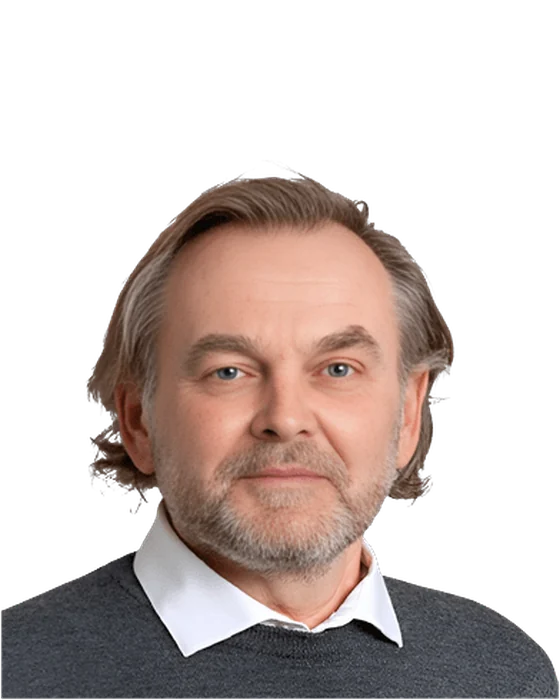
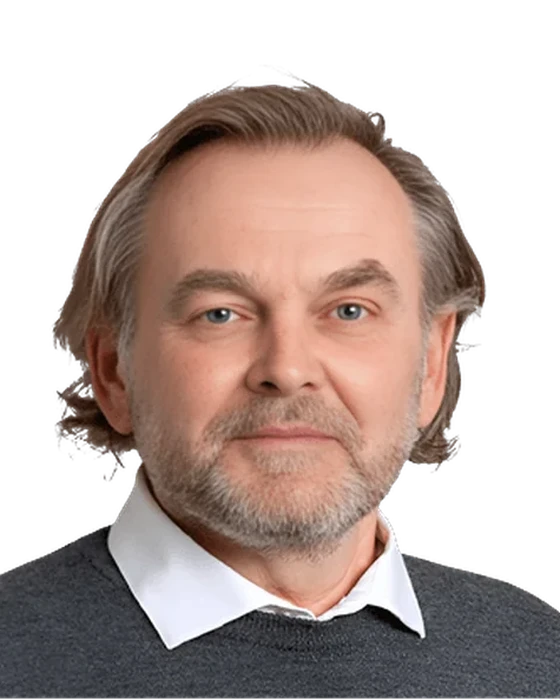
Align team portraits, add Glauco Verdoia
Claude-Session: https://claude.ai/code/session_01TnWve3oiKZAnnVXSdp2RBk

diff --git a/projects.html b/projects.html
@@ -93,7 +93,7 @@
   </div>
 </footer>
 <div class="drawer" id="drawer" aria-hidden="true"><div class="scrim" id="scrim"></div><aside class="panel" role="dialog" aria-modal="true" aria-labelledby="d-name" style="position:relative"><button class="close" id="dclose" aria-label="Close"><svg class="ic"><use href="#i-x"/></svg></button><div id="dbody"></div></aside></div>
-<script>window.__IMG={'team-tor':'assets/team-tor.webp','team-venkat':'assets/team-venkat.webp','team-lauren':'assets/team-lauren.webp','team-david':'assets/team-david.webp','team-joakim':'assets/team-joakim.webp','team-bjorn':'assets/team-bjorn.webp','team-joe':'assets/team-joe.webp','team-reza':'assets/team-reza.webp','team-knut':'assets/team-knut.webp'};window.__NORDIC="0000000000000000000000000000000000000000000000000000000000000000000000000000000000000000000000000000,0000000000000000000000000000000000000000000000000000000000000000000000000000000000000000000000000000,0000000000000000000000000000000000000000000000000000000000000000000000000000000000000000000000000000,0000000000000000000000000000000000000000000000000000000000000000000000000000000000000000000000000000,0000000000000000000000000000000000000000000000000000000000000000000000000000000000000000000000000000,0000000000000000000000000000000000000000000000000000000000000000100111000000000000000000000000000000,0000000000000000000000000000000000000000000000000000000000000010000010111100000000000000000000000000,0000000000000000000000000000000000000000000000000000000000000011010111111110000000000000000000000000,0000000000000000000000000000000000000000000000000000000000101011011111111111000000000000000000000000,0000000000000000000000000000000000000000000000000000000000000111011111111110000000000000000000000000,0000000000000000000000000000000000000000000000000000000000011111111111110000003300000000000000000000,0000000000000000000000000000000000000000000000000000000011101111111111111000003330000000000000000000,0000000000000000000000000000000000000000000000000000001001111111111111111111333330000033000000000000,0000000000000000000000000000000000000000000000000001000011111111111111111113333333033333333000000000,0000000000000000000000000000000000000000000000000011011111111111111111111113333333333333333330000000,0000000000000000000000000000000000000000000000000111111111111111111111111133333333333333333333330000,0000000000000000000000000000000000000000000000011011011111111111111111111333333333333333333333333330,0000000000000000000000000000000000000000000000011101111111111111111111111333333333333333333333333333,0000000000000000000000000000000000000000000010011111111111111111111111111333333333333333333333333333,0000000000000000000000000000000000000000000100001111112111111111111111111333333333333333333333333333,0000000000000000000000000000000000000000001100001111112211111111111111111333333333333333333333333333,0000000000000000000000000000000000000000011101011111112221111111111111111333333333333333333333333333,0000000000000000000000000000000000000000000110111211112222211111111111111133333333333333333333333333,0000000000000000000000000000000000000000011101011222222222222111111111111111333333333333333333333333,0000000000000000000000000000000000000001100011111222222222222111111111111111133333333333333333333333,0000000000000000000000000000000000000100000111121222222222222211111111111111133333333333333333333333,0000000000000000000000000000000000000000001111222222222222222211111111111111133333333333333333333333,0000000000000000000000000000000000000000001111222222222222222211111111111111333333330333333333333333,0000000000000000000000000000000000000000000111222222222222222211111111111111333333330000033333333333,0000000000000000000000000000000000000000011112222222222222222221111111111111333333333300000000000000,0000000000000000000000000000000000000000000112222222222222222221111111111111333333333330000000000000,0000000000000000000000000000000000000000111112222222222222222221111111111111133333333333300000000000,0000000000000000000000000000000000000001111112222222222222222222111111111111133333333333333000000000,0000000000000000000000000000000000000011111122222222222222222222111111111111113333333333333000000000,0000000000000000000000000000000000000111111222222222222222222221111111111111111333333333333000000000,0000000000000000000000000000000000000111111222222222222222222221111111111111111333333333333000000330,0000000000000000000000000000000000000101111222222222222222222222111111111111111133333333333000300333,0000000000000000000000000000000000011111122222222222222222222222111111111111111333333333333300000333,0000000000000000000000000000000000011111122222222222222222222222201111111111111333333333333330000033,0000000000000000000000000000000000011111122222222222222222220000000111111111111333333333333330000003,0000000000000000000000000000000000011111122222222222222222220000000011111111111133333333333330000000,0000000000000000000000000000000000111111222222222222222222200000000011111111111333333333333333030000,0000000000000000000000000000000000111111222222222222222222200000000011111111111113333333333333333300,0000000000000000000000000000000001111111222222222222222222000000001011111111111113333333333333333333,0000000000000000000000000000001111111112222222222222222222000000000111111111111113333333333333333333,0000000000000000000000000000000011111112222222222222222222000000001111111111111111333333333333333333,0000000000000000000000000000000111111122222222222222222222000000001111111111111111133333333333333333,0000000000000000000000000000001111111112222222222222222222200000011111111111111111133333333333333333,0000000000000000000000000000011111111112222222222222222222000000011111111111111111333333333333333333,0000000000000000000000000000111111111112222222222222222220000000111111111111111111133333333333333333,0000000000000000000000000001110111122222222222222222222220000000111111111111111111113333333333333333,0000000000000000000000000001110111122222222222222222222220000001111111111111111111111133333333333333,0000000000000000000000011011101111222222222222222222222200000011111111111111111111111113333333333333,0000000000000000000000001111111111222222222222222222220000000111111111111111111111111113333333333333,0000000000000000000001111111111112222222222222222222200000000111111111111111111111111113333333333333,0000000000000000000111011111111112222222222222222222000000111111111111111111111111111113333333333333,0000000000000000001111111111111112222222222222222220000000011111111111111111111111111133333333333333,0000000000000000111111111111111112222222222222222220000000011111111111111111111111111133333333333333,0000000000000011111111111111111112222222222222222000000000111111111111111111111111111333333333333333,0000000000000111111111111111111112222222222222222200000000111111111111111111111111111333333333333333,0000000000000111111111111111111112222222222222220000000000011111111111111111111111113333333333333333,0000000000001100111111111111111112222222222222220000000000011111111111111111111111113333333333333333,0000000000001111111111111111111112222222222222220000000000011111111111111111111111113333333333333333,0000000000001111111111111111111112222222222222220000000000011111111111111111111111133333333333333333,0000000000001111111111111111111112222222222222220000000000001111111111111111111111333333333333333333,0000000000001111111111111111111111222222222222200000000000001111111111111111111111333333333333333333,0000000000011111101111111111111111222222222222200000000000001111111111111111111113333333333333333333,0000000000011111111111111111111111222222222222200000000000001111111111111111111133333333333333333333,0000000000010111111111111111111111222222222222200000000000001111111111111111111130333333333333333333,0000000000111111111111111111111112222222222222200000000000001111111111111111111003333333333333333333,0000000000111100111111111111111112222222222222220000000000001111111111111111000000033333333333333333,0000000000001011111111111111111112222222222222220000000000011111111111111100000000000003333333333333,0000000000010111111111111111111112222222222222222200000000000101111111110000000000003333333333333333,0000000000101111111111111111111112222222222222222220000000000000111111000000000000033333333333333333,0000000000011111111111111111111112222222222222222220000000000001001100000000000003333333333333333333,0000000000111111111111111111111122222222222222222222000000000000010000000000000003333333333333333333,0000000000110111111111111111111222222222222222222222200000000000000000000333300333333333333333333333,0000000000001111111111111101112222222222222222222222000000000000000000033333333333333333333333333333,0000000000001111111111111101112222222222222222222220000000000000000003333333333333333333333333333333,0000000000111111111111111101112222222222222222222202000000000000000333333333333333333333333333333333,0000000000111111111111111000012222222222222222222220000000000000000333333333333333333333333333333333,0000000000011111111111000000212222222222222222222200000000000003330333333333333333333333333333333333,0000000000011111111111000000222222222222222222222000000000000000300033333333333333333333333333333333,0000000000001111111100000000222222222222222222200000000000000000333033333333333333333333333333333333,0000000000000111111000000000222222222222222222000000000000000033330033033333333333333333333333333333,0000000000000001100000000000022222222222222222000000000000000003330000033333333333333333333333333333,0000000000000000000000000000022222222222222222000000000000000000000000033333333333333333333333333333,0000000000000000000000000000022222222222222222000000000000000003000000033333333333333333333333333333,0000000000000000000000000000022222222222222222000000020000000000000000033333333333333333333333333333,0000000000000000000000022000002222222222222220000002200000000000300000033333333333333333333333333333,0000000000000000000000022000002222222222222220000002200000000033330000033333333333333333333333333333,0000000000000000000000222000002222222222222222000022200000000033333000033333333333333333333333333333,0000000000000000002222222000000222222222222220000022000000000333333300333333333333333333333333333333,0000000000000000022002220000000222222222222220200002000000000333333333333333333333333333333333333333,0000000000000000000222220000000222222222222220000000000000000333333333333333333333333333333333333333,0000000000000000022222220000000022222222222222000000000000003333333333333333333333333333333333333333,0000000000000000222222222200000002222222222202000000000000003333333333333333333333333303333333333333,0000000000000000222222222200000022222222222200000000000000003333333333333333333333330000033000333333,0000000000000000222222220000000222222222222200000000000000000333333333333333333333300000000000033333,0000000000000000222222200000002022222220202000000000000000000333333333333333333330000000000000033333,0000000000000000222222002000022022222200000000000000000000000333333333333333333300000000000000003333,0000000000000000222222000022022002222000000000000000000000000333333333333333333300000000000000003333,0000000000000000022220222022222202222000000000000000000000000333333333333333333330000000000000003333,0000000000000000022220222022220022222000000000000000000000000033333333333333333330000000000000000333,0000000000000000022200222022222000000000000000000000000000000033333333333333333000000000000000000333,0000000000000000022222000000200000000002000000000000000000000033333333333333330000000000000000000033,0000000000000000333330002000222000000002000000000000000000030033333333333333330000000000000000000000,0000000000000000003333000022200000000000000000000000000003333333333333333333330000000000000000000000,0000000000000000003330000000000000000000000000003333300003333333333333333333330000000000000000000000,0000000000000000033333300300000003300000000000333333000003333333333333333333300000000000000000000000";</script>
+<script>window.__IMG={'team-tor':'assets/team-tor.webp','team-venkat':'assets/team-venkat.webp','team-lauren':'assets/team-lauren.webp','team-david':'assets/team-david.webp','team-joakim':'assets/team-joakim.webp','team-bjorn':'assets/team-bjorn.webp','team-joe':'assets/team-joe.webp','team-reza':'assets/team-reza.webp','team-glauco':'assets/team-glauco.webp','team-knut':'assets/team-knut.webp'};window.__NORDIC="0000000000000000000000000000000000000000000000000000000000000000000000000000000000000000000000000000,0000000000000000000000000000000000000000000000000000000000000000000000000000000000000000000000000000,0000000000000000000000000000000000000000000000000000000000000000000000000000000000000000000000000000,0000000000000000000000000000000000000000000000000000000000000000000000000000000000000000000000000000,0000000000000000000000000000000000000000000000000000000000000000000000000000000000000000000000000000,0000000000000000000000000000000000000000000000000000000000000000100111000000000000000000000000000000,0000000000000000000000000000000000000000000000000000000000000010000010111100000000000000000000000000,0000000000000000000000000000000000000000000000000000000000000011010111111110000000000000000000000000,0000000000000000000000000000000000000000000000000000000000101011011111111111000000000000000000000000,0000000000000000000000000000000000000000000000000000000000000111011111111110000000000000000000000000,0000000000000000000000000000000000000000000000000000000000011111111111110000003300000000000000000000,0000000000000000000000000000000000000000000000000000000011101111111111111000003330000000000000000000,0000000000000000000000000000000000000000000000000000001001111111111111111111333330000033000000000000,0000000000000000000000000000000000000000000000000001000011111111111111111113333333033333333000000000,0000000000000000000000000000000000000000000000000011011111111111111111111113333333333333333330000000,0000000000000000000000000000000000000000000000000111111111111111111111111133333333333333333333330000,0000000000000000000000000000000000000000000000011011011111111111111111111333333333333333333333333330,0000000000000000000000000000000000000000000000011101111111111111111111111333333333333333333333333333,0000000000000000000000000000000000000000000010011111111111111111111111111333333333333333333333333333,0000000000000000000000000000000000000000000100001111112111111111111111111333333333333333333333333333,0000000000000000000000000000000000000000001100001111112211111111111111111333333333333333333333333333,0000000000000000000000000000000000000000011101011111112221111111111111111333333333333333333333333333,0000000000000000000000000000000000000000000110111211112222211111111111111133333333333333333333333333,0000000000000000000000000000000000000000011101011222222222222111111111111111333333333333333333333333,0000000000000000000000000000000000000001100011111222222222222111111111111111133333333333333333333333,0000000000000000000000000000000000000100000111121222222222222211111111111111133333333333333333333333,0000000000000000000000000000000000000000001111222222222222222211111111111111133333333333333333333333,0000000000000000000000000000000000000000001111222222222222222211111111111111333333330333333333333333,0000000000000000000000000000000000000000000111222222222222222211111111111111333333330000033333333333,0000000000000000000000000000000000000000011112222222222222222221111111111111333333333300000000000000,0000000000000000000000000000000000000000000112222222222222222221111111111111333333333330000000000000,0000000000000000000000000000000000000000111112222222222222222221111111111111133333333333300000000000,0000000000000000000000000000000000000001111112222222222222222222111111111111133333333333333000000000,0000000000000000000000000000000000000011111122222222222222222222111111111111113333333333333000000000,0000000000000000000000000000000000000111111222222222222222222221111111111111111333333333333000000000,0000000000000000000000000000000000000111111222222222222222222221111111111111111333333333333000000330,0000000000000000000000000000000000000101111222222222222222222222111111111111111133333333333000300333,0000000000000000000000000000000000011111122222222222222222222222111111111111111333333333333300000333,0000000000000000000000000000000000011111122222222222222222222222201111111111111333333333333330000033,0000000000000000000000000000000000011111122222222222222222220000000111111111111333333333333330000003,0000000000000000000000000000000000011111122222222222222222220000000011111111111133333333333330000000,0000000000000000000000000000000000111111222222222222222222200000000011111111111333333333333333030000,0000000000000000000000000000000000111111222222222222222222200000000011111111111113333333333333333300,0000000000000000000000000000000001111111222222222222222222000000001011111111111113333333333333333333,0000000000000000000000000000001111111112222222222222222222000000000111111111111113333333333333333333,0000000000000000000000000000000011111112222222222222222222000000001111111111111111333333333333333333,0000000000000000000000000000000111111122222222222222222222000000001111111111111111133333333333333333,0000000000000000000000000000001111111112222222222222222222200000011111111111111111133333333333333333,0000000000000000000000000000011111111112222222222222222222000000011111111111111111333333333333333333,0000000000000000000000000000111111111112222222222222222220000000111111111111111111133333333333333333,0000000000000000000000000001110111122222222222222222222220000000111111111111111111113333333333333333,0000000000000000000000000001110111122222222222222222222220000001111111111111111111111133333333333333,0000000000000000000000011011101111222222222222222222222200000011111111111111111111111113333333333333,0000000000000000000000001111111111222222222222222222220000000111111111111111111111111113333333333333,0000000000000000000001111111111112222222222222222222200000000111111111111111111111111113333333333333,0000000000000000000111011111111112222222222222222222000000111111111111111111111111111113333333333333,0000000000000000001111111111111112222222222222222220000000011111111111111111111111111133333333333333,0000000000000000111111111111111112222222222222222220000000011111111111111111111111111133333333333333,0000000000000011111111111111111112222222222222222000000000111111111111111111111111111333333333333333,0000000000000111111111111111111112222222222222222200000000111111111111111111111111111333333333333333,0000000000000111111111111111111112222222222222220000000000011111111111111111111111113333333333333333,0000000000001100111111111111111112222222222222220000000000011111111111111111111111113333333333333333,0000000000001111111111111111111112222222222222220000000000011111111111111111111111113333333333333333,0000000000001111111111111111111112222222222222220000000000011111111111111111111111133333333333333333,0000000000001111111111111111111112222222222222220000000000001111111111111111111111333333333333333333,0000000000001111111111111111111111222222222222200000000000001111111111111111111111333333333333333333,0000000000011111101111111111111111222222222222200000000000001111111111111111111113333333333333333333,0000000000011111111111111111111111222222222222200000000000001111111111111111111133333333333333333333,0000000000010111111111111111111111222222222222200000000000001111111111111111111130333333333333333333,0000000000111111111111111111111112222222222222200000000000001111111111111111111003333333333333333333,0000000000111100111111111111111112222222222222220000000000001111111111111111000000033333333333333333,0000000000001011111111111111111112222222222222220000000000011111111111111100000000000003333333333333,0000000000010111111111111111111112222222222222222200000000000101111111110000000000003333333333333333,0000000000101111111111111111111112222222222222222220000000000000111111000000000000033333333333333333,0000000000011111111111111111111112222222222222222220000000000001001100000000000003333333333333333333,0000000000111111111111111111111122222222222222222222000000000000010000000000000003333333333333333333,0000000000110111111111111111111222222222222222222222200000000000000000000333300333333333333333333333,0000000000001111111111111101112222222222222222222222000000000000000000033333333333333333333333333333,0000000000001111111111111101112222222222222222222220000000000000000003333333333333333333333333333333,0000000000111111111111111101112222222222222222222202000000000000000333333333333333333333333333333333,0000000000111111111111111000012222222222222222222220000000000000000333333333333333333333333333333333,0000000000011111111111000000212222222222222222222200000000000003330333333333333333333333333333333333,0000000000011111111111000000222222222222222222222000000000000000300033333333333333333333333333333333,0000000000001111111100000000222222222222222222200000000000000000333033333333333333333333333333333333,0000000000000111111000000000222222222222222222000000000000000033330033033333333333333333333333333333,0000000000000001100000000000022222222222222222000000000000000003330000033333333333333333333333333333,0000000000000000000000000000022222222222222222000000000000000000000000033333333333333333333333333333,0000000000000000000000000000022222222222222222000000000000000003000000033333333333333333333333333333,0000000000000000000000000000022222222222222222000000020000000000000000033333333333333333333333333333,0000000000000000000000022000002222222222222220000002200000000000300000033333333333333333333333333333,0000000000000000000000022000002222222222222220000002200000000033330000033333333333333333333333333333,0000000000000000000000222000002222222222222222000022200000000033333000033333333333333333333333333333,0000000000000000002222222000000222222222222220000022000000000333333300333333333333333333333333333333,0000000000000000022002220000000222222222222220200002000000000333333333333333333333333333333333333333,0000000000000000000222220000000222222222222220000000000000000333333333333333333333333333333333333333,0000000000000000022222220000000022222222222222000000000000003333333333333333333333333333333333333333,0000000000000000222222222200000002222222222202000000000000003333333333333333333333333303333333333333,0000000000000000222222222200000022222222222200000000000000003333333333333333333333330000033000333333,0000000000000000222222220000000222222222222200000000000000000333333333333333333333300000000000033333,0000000000000000222222200000002022222220202000000000000000000333333333333333333330000000000000033333,0000000000000000222222002000022022222200000000000000000000000333333333333333333300000000000000003333,0000000000000000222222000022022002222000000000000000000000000333333333333333333300000000000000003333,0000000000000000022220222022222202222000000000000000000000000333333333333333333330000000000000003333,0000000000000000022220222022220022222000000000000000000000000033333333333333333330000000000000000333,0000000000000000022200222022222000000000000000000000000000000033333333333333333000000000000000000333,0000000000000000022222000000200000000002000000000000000000000033333333333333330000000000000000000033,0000000000000000333330002000222000000002000000000000000000030033333333333333330000000000000000000000,0000000000000000003333000022200000000000000000000000000003333333333333333333330000000000000000000000,0000000000000000003330000000000000000000000000003333300003333333333333333333330000000000000000000000,0000000000000000033333300300000003300000000000333333000003333333333333333333300000000000000000000000";</script>
 <script src="app.js"></script>
 </body>
 </html>

diff --git a/app.js b/app.js
@@ -18,7 +18,7 @@ const EXEC=[
  {id:'venkat',name:'Venkat Thummisi',role:'Strategic Partner & Infrastructure Lead',bio:['Technology entrepreneur and former Head of Core Infrastructure at OpenAI.','Founder and CEO of Data Cities, focused on large-scale AI digital infrastructure.','Leads senior teams with data centre and GPU cluster experience, including brownfield conversions, hyperscale campuses and liquid-cooled deployments.','MSc in Management and Engineering from MIT.']},
  {id:'lauren',name:'Lauren Selig',role:'Board Member',bio:['Entrepreneur and investor with two decades of experience in technology, start-ups, digital infrastructure and media.','Founded Shake and Bake Productions and V.A.L.I.S Studios.','Has backed or advised companies in VR, blockchain, AI and emerging technology.','Serves on the board of XPRIZE.']},
  {id:'david',name:'David Kippen',role:'Board Member',bio:['Telecoms and technology investor with 25 years in M&A and private equity, including over $30bn in transactions across the US and Europe.','Serves on the boards of infrastructure companies in Ireland, Poland and Africa, and represents a major Family Office.','Previously in technology investment banking at JPMorgan and UBS.','Degrees from McGill and Johns Hopkins / SAIS.']}];
-const CORE=[{id:'joakim',name:'Joakim Treider',role:'CEO'},{id:'bjorn',name:'Bjørn Vik',role:'CTO'},{id:'joe',name:'Joe McCaffrey',role:'COO'},{id:'reza',name:'Reza Zahedi',role:'Vice President'},{id:'knut',name:'Knut Gronsberg',role:'Community Director'}];
+const CORE=[{id:'joakim',name:'Joakim Treider',role:'CEO'},{id:'bjorn',name:'Bjørn Vik',role:'CTO'},{id:'joe',name:'Joe McCaffrey',role:'COO'},{id:'reza',name:'Reza Zahedi',role:'Vice President'},{id:'glauco',name:'Glauco Verdoia',role:'Vice President'},{id:'knut',name:'Knut Gronsberg',role:'Community Director'}];
 const IMG=window.__IMG||{};
 const ini=n=>n.split(' ').map(s=>s[0]).join('');
 const photo=p=>`<div class="photo">${IMG['team-'+p.id]?`<img src="${IMG['team-'+p.id]}" alt="Portrait of ${p.name}" loading="lazy">`:`<span class="ini">${ini(p.name)}</span>`}</div>`;

diff --git a/about.html b/about.html
@@ -102,7 +102,7 @@
   </div>
 </footer>
 <div class="drawer" id="drawer" aria-hidden="true"><div class="scrim" id="scrim"></div><aside class="panel" role="dialog" aria-modal="true" aria-labelledby="d-name" style="position:relative"><button class="close" id="dclose" aria-label="Close"><svg class="ic"><use href="#i-x"/></svg></button><div id="dbody"></div></aside></div>
-<script>window.__IMG={'team-tor':'assets/team-tor.webp','team-venkat':'assets/team-venkat.webp','team-lauren':'assets/team-lauren.webp','team-david':'assets/team-david.webp','team-joakim':'assets/team-joakim.webp','team-bjorn':'assets/team-bjorn.webp','team-joe':'assets/team-joe.webp','team-reza':'assets/team-reza.webp','team-knut':'assets/team-knut.webp'};window.__NORDIC="";</script>
+<script>window.__IMG={'team-tor':'assets/team-tor.webp','team-venkat':'assets/team-venkat.webp','team-lauren':'assets/team-lauren.webp','team-david':'assets/team-david.webp','team-joakim':'assets/team-joakim.webp','team-bjorn':'assets/team-bjorn.webp','team-joe':'assets/team-joe.webp','team-reza':'assets/team-reza.webp','team-glauco':'assets/team-glauco.webp','team-knut':'assets/team-knut.webp'};window.__NORDIC="";</script>
 <script src="app.js"></script>
 </body>
 </html>

diff --git a/hero.html b/hero.html
@@ -154,7 +154,7 @@
   </div>
 </footer>
 <div class="drawer" id="drawer" aria-hidden="true"><div class="scrim" id="scrim"></div><aside class="panel" role="dialog" aria-modal="true" aria-labelledby="d-name" style="position:relative"><button class="close" id="dclose" aria-label="Close"><svg class="ic"><use href="#i-x"/></svg></button><div id="dbody"></div></aside></div>
-<script>window.__IMG={'team-tor':'assets/team-tor.webp','team-venkat':'assets/team-venkat.webp','team-lauren':'assets/team-lauren.webp','team-david':'assets/team-david.webp','team-joakim':'assets/team-joakim.webp','team-bjorn':'assets/team-bjorn.webp','team-joe':'assets/team-joe.webp','team-reza':'assets/team-reza.webp','team-knut':'assets/team-knut.webp'};window.__NORDIC="";</script>
+<script>window.__IMG={'team-tor':'assets/team-tor.webp','team-venkat':'assets/team-venkat.webp','team-lauren':'assets/team-lauren.webp','team-david':'assets/team-david.webp','team-joakim':'assets/team-joakim.webp','team-bjorn':'assets/team-bjorn.webp','team-joe':'assets/team-joe.webp','team-reza':'assets/team-reza.webp','team-glauco':'assets/team-glauco.webp','team-knut':'assets/team-knut.webp'};window.__NORDIC="";</script>
 <script src="app.js"></script>
 </body>
 </html>

diff --git a/index.html b/index.html
@@ -153,7 +153,7 @@
   </div>
 </footer>
 <div class="drawer" id="drawer" aria-hidden="true"><div class="scrim" id="scrim"></div><aside class="panel" role="dialog" aria-modal="true" aria-labelledby="d-name" style="position:relative"><button class="close" id="dclose" aria-label="Close"><svg class="ic"><use href="#i-x"/></svg></button><div id="dbody"></div></aside></div>
-<script>window.__IMG={'team-tor':'assets/team-tor.webp','team-venkat':'assets/team-venkat.webp','team-lauren':'assets/team-lauren.webp','team-david':'assets/team-david.webp','team-joakim':'assets/team-joakim.webp','team-bjorn':'assets/team-bjorn.webp','team-joe':'assets/team-joe.webp','team-reza':'assets/team-reza.webp','team-knut':'assets/team-knut.webp'};window.__NORDIC="";</script>
+<script>window.__IMG={'team-tor':'assets/team-tor.webp','team-venkat':'assets/team-venkat.webp','team-lauren':'assets/team-lauren.webp','team-david':'assets/team-david.webp','team-joakim':'assets/team-joakim.webp','team-bjorn':'assets/team-bjorn.webp','team-joe':'assets/team-joe.webp','team-reza':'assets/team-reza.webp','team-glauco':'assets/team-glauco.webp','team-knut':'assets/team-knut.webp'};window.__NORDIC="";</script>
 <script src="app.js"></script>
 </body>
 </html>

diff --git a/contact.html b/contact.html
@@ -63,7 +63,7 @@
   </div>
 </footer>
 <div class="drawer" id="drawer" aria-hidden="true"><div class="scrim" id="scrim"></div><aside class="panel" role="dialog" aria-modal="true" aria-labelledby="d-name" style="position:relative"><button class="close" id="dclose" aria-label="Close"><svg class="ic"><use href="#i-x"/></svg></button><div id="dbody"></div></aside></div>
-<script>window.__IMG={'team-tor':'assets/team-tor.webp','team-venkat':'assets/team-venkat.webp','team-lauren':'assets/team-lauren.webp','team-david':'assets/team-david.webp','team-joakim':'assets/team-joakim.webp','team-bjorn':'assets/team-bjorn.webp','team-joe':'assets/team-joe.webp','team-reza':'assets/team-reza.webp','team-knut':'assets/team-knut.webp'};window.__NORDIC="";</script>
+<script>window.__IMG={'team-tor':'assets/team-tor.webp','team-venkat':'assets/team-venkat.webp','team-lauren':'assets/team-lauren.webp','team-david':'assets/team-david.webp','team-joakim':'assets/team-joakim.webp','team-bjorn':'assets/team-bjorn.webp','team-joe':'assets/team-joe.webp','team-reza':'assets/team-reza.webp','team-glauco':'assets/team-glauco.webp','team-knut':'assets/team-knut.webp'};window.__NORDIC="";</script>
 <script src="app.js"></script>
 </body>
 </html>

diff --git a/team.html b/team.html
@@ -55,7 +55,7 @@
   </div>
 </footer>
 <div class="drawer" id="drawer" aria-hidden="true"><div class="scrim" id="scrim"></div><aside class="panel" role="dialog" aria-modal="true" aria-labelledby="d-name" style="position:relative"><button class="close" id="dclose" aria-label="Close"><svg class="ic"><use href="#i-x"/></svg></button><div id="dbody"></div></aside></div>
-<script>window.__IMG={'team-tor':'assets/team-tor.webp','team-venkat':'assets/team-venkat.webp','team-lauren':'assets/team-lauren.webp','team-david':'assets/team-david.webp','team-joakim':'assets/team-joakim.webp','team-bjorn':'assets/team-bjorn.webp','team-joe':'assets/team-joe.webp','team-reza':'assets/team-reza.webp','team-knut':'assets/team-knut.webp'};window.__NORDIC="";</script>
+<script>window.__IMG={'team-tor':'assets/team-tor.webp','team-venkat':'assets/team-venkat.webp','team-lauren':'assets/team-lauren.webp','team-david':'assets/team-david.webp','team-joakim':'assets/team-joakim.webp','team-bjorn':'assets/team-bjorn.webp','team-joe':'assets/team-joe.webp','team-reza':'assets/team-reza.webp','team-glauco':'assets/team-glauco.webp','team-knut':'assets/team-knut.webp'};window.__NORDIC="";</script>
 <script src="app.js"></script>
 </body>
 </html>

diff --git a/site.css b/site.css
@@ -244,7 +244,7 @@ p{margin:0}
 .infra p{margin-top:14px;color:#B5BDD8;font-size:16px;line-height:1.6}
 .infra ul{list-style:none;padding:0;margin:auto 0 0;padding-top:24px;display:flex;flex-wrap:wrap;gap:8px}
 .infra li{border:1px solid rgba(255,255,255,.2);padding:8px 12px;font-size:13.5px}
-.core{display:grid;grid-template-columns:repeat(5,1fr);gap:16px}
+.core{display:grid;grid-template-columns:repeat(6,1fr);gap:16px}
 .core .photo{aspect-ratio:1/1}
 .core .person h4{font-size:18px}
 .core .person .meta{padding:16px 16px 18px}
@@ -711,3 +711,4 @@ footer{padding-top:80px;overflow:hidden}
 .drawer.open .dhead .photo img{animation:dimg .7s var(--ease) both .15s}
 @keyframes dimg{from{opacity:0;transform:translateY(10px)}to{opacity:1;transform:none}}
 @media (max-width:420px){.drawer .dhead{grid-template-columns:112px minmax(0,1fr);gap:16px;padding:68px 20px 0}.drawer .body{padding-inline:20px}}
+.core .photo img{object-position:50% 0%}
